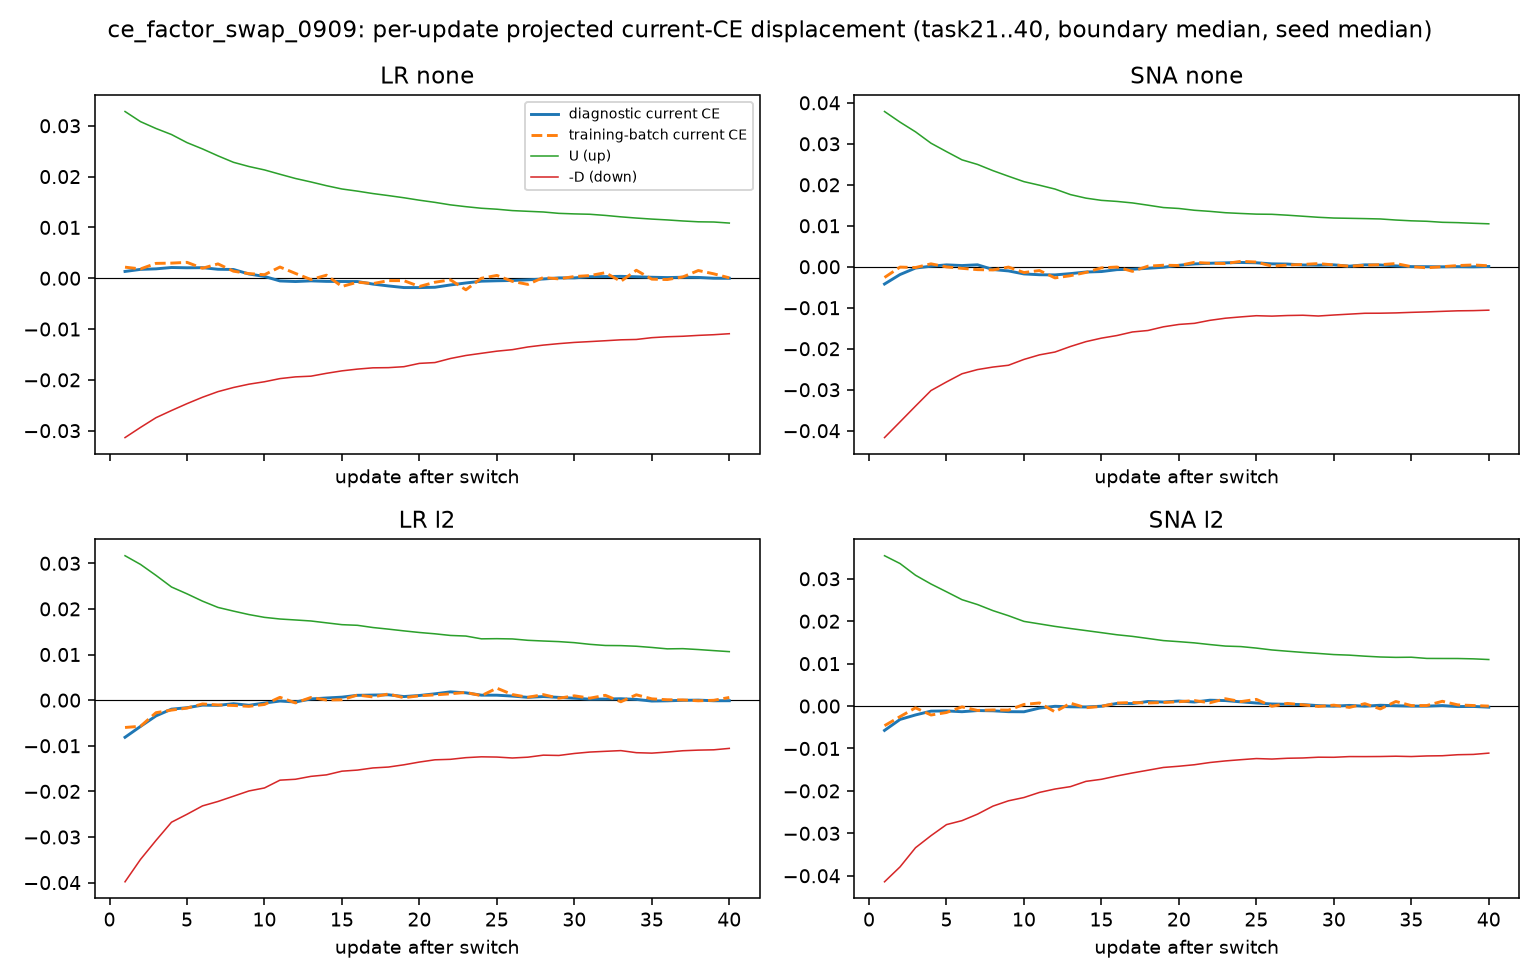
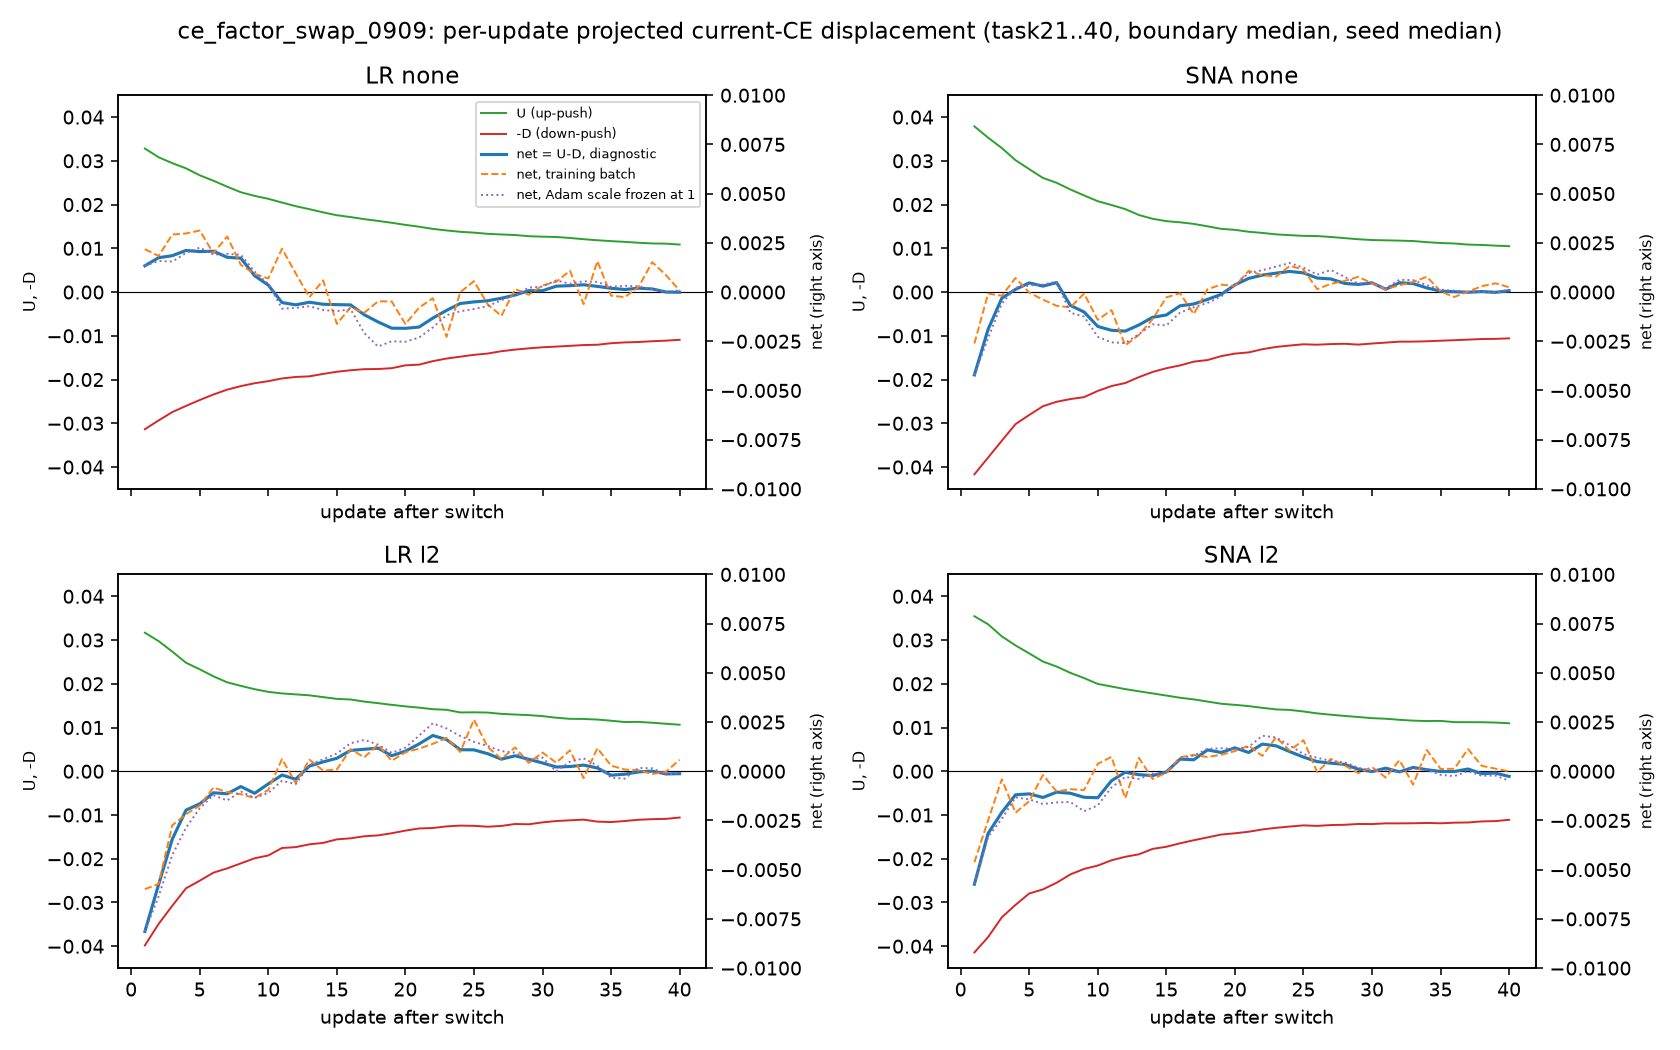
[Issan/Claude]:[ce_factor_swap_0909] course図の軸を分離：U/Dの崩壊とnetの零交差を同時に読めるようにする

diff --git a/src/ce_factor_swap_report_0909.py b/src/ce_factor_swap_report_0909.py
@@ -97,16 +97,21 @@ def main():
     replay_mutctl=c.get('replay_mutctl')))
  pd.DataFrame(vr).to_csv(OUT/'validation.csv',index=False)
  # ---- figures ----
- fig,ax=plt.subplots(2,2,figsize=(11,7),sharex=True)
+ fig,ax=plt.subplots(2,2,figsize=(12,7.5),sharex=True)
  for k,(a,i) in enumerate(ARMS):
   x=ax[k//2][k%2];c=course[(course.arm==a)&(course.iv==i)]
-  x.axhline(0,color='k',lw=.6)
-  x.plot(c.step,c.diag_net,label='diagnostic current CE',color='C0')
-  x.plot(c.step,c.train_current,label='training-batch current CE',color='C1',ls='--')
-  x.plot(c.step,c.diag_U,label='U (up)',color='C2',lw=.8)
-  x.plot(c.step,-c.diag_D,label='-D (down)',color='C3',lw=.8)
+  x.plot(c.step,c.diag_U,label='U (up-push)',color='C2',lw=1)
+  x.plot(c.step,-c.diag_D,label='-D (down-push)',color='C3',lw=1)
+  x.set_ylim(-.045,.045);x.set_ylabel('U, -D',fontsize=8)
+  tw=x.twinx();tw.axhline(0,color='k',lw=.6)
+  tw.plot(c.step,c.diag_net,label='net = U-D, diagnostic',color='C0',lw=1.6)
+  tw.plot(c.step,c.train_current,label='net, training batch',color='C1',ls='--',lw=1)
+  tw.plot(c.step,c.diag_frozenD,label='net, Adam scale frozen at 1',color='C4',ls=':',lw=1)
+  tw.set_ylim(-.010,.010);tw.set_ylabel('net (right axis)',fontsize=8)
   x.set_title(f'{a} {i}');x.set_xlabel('update after switch')
-  if k==0:x.legend(fontsize=7)
+  if k==0:
+   h1,l1=x.get_legend_handles_labels();h2,l2=tw.get_legend_handles_labels()
+   x.legend(h1+h2,l1+l2,fontsize=6.5,loc='upper right')
  fig.suptitle('ce_factor_swap_0909: per-update projected current-CE displacement (task21..40, boundary median, seed median)')
  fig.tight_layout()
  for e in ('png','pdf'):fig.savefig(OUT/f'course.{e}',dpi=140)
